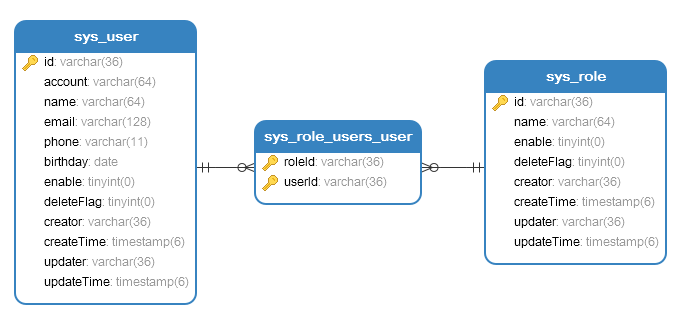
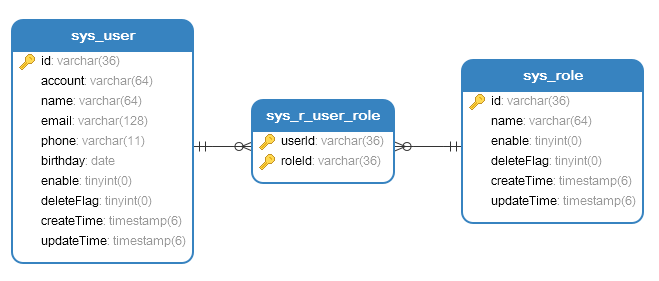
修改表名

Changed region(s): [[0.0, 0.0569, 1.0, 0.9395]]

diff --git a/src/dao/userDao.js b/src/dao/userDao.js
@@ -12,8 +12,8 @@ class UserDao {
      */
     static async queryUserById (connection, id) {
         const sql = `SELECT user.id, user.account, user.name, user.email, user.phone,
-                          user.birthday, user.enable, user.deleteFlag, user.creator,
-                          user.createTime, user.updater, user.updateTime
+                          user.birthday, user.enable, user.deleteFlag, user.createTime,
+                          user.updateTime
                    FROM sys_user user
                    WHERE user.id = ?`;
         const user = await queryOne(connection, sql, id);
@@ -27,8 +27,8 @@ class UserDao {
      */
     static async queryUsers (connection) {
         const sql = `SELECT user.id, user.account, user.name, user.email, user.phone,
-                          user.birthday, user.enable, user.deleteFlag, user.creator,
-                          user.createTime, user.updater, user.updateTime
+                          user.birthday, user.enable, user.deleteFlag, user.createTime, 
+                          user.updateTime
                    FROM sys_user user
                    WHERE user.deleteFlag = ?`;
         const list = await query(connection, sql, [0]);
@@ -43,7 +43,7 @@ class UserDao {
      * @return {Promise.<Array<String>>}
      */
     static async queryUserRoleIds (connection, userId) {
-        const querySql = `SELECT roleId, userId FROM sys_role_users_user WHERE userId = ?`;
+        const querySql = `SELECT roleId, userId FROM sys_r_user_role WHERE userId = ?`;
         const list = await query(connection, querySql, userId);
         const roleIds = list.map(item => item.roleId);
         return roleIds;
@@ -57,11 +57,11 @@ class UserDao {
      * @return {Promise.<void>}
      */
     static async insertUserRoleRelations (connection, userId, roleIds) {
-        const sql = `INSERT INTO sys_role_users_user(roleId, userId) VALUES (?, ?)`;
+        const sql = `INSERT INTO sys_r_user_role(roleId, userId) VALUES (?, ?)`;
         let i, roleId;
         for (i = 0; i < roleIds.length; i++) {
             roleId = roleIds[i];
-            await db.insert(connection, sql, [ roleId, userId ], true);
+            await insert(connection, sql, [ roleId, userId ], true);
         }
     }
 
@@ -73,7 +73,7 @@ class UserDao {
      * @return {Promise.<void>}
      */
     static async deleteUserRoleRelations (connection, userId, roleIds) {
-        const sql = `DELETE FROM sys_role_users_user WHERE roleId = ? AND  userId = ?`;
+        const sql = `DELETE FROM sys_r_user_role WHERE roleId = ? AND  userId = ?`;
         let i, roleId;
         for (i = 0; i < roleIds.length; i++) {
             roleId = roleIds[i];

diff --git a/src/dao/roleDao.js b/src/dao/roleDao.js
@@ -12,7 +12,7 @@ class RoleDao {
      */
     static async queryRoleById (connection, id) {
         const sql = `SELECT role.id, role.name, role.enable, role.deleteFlag,
-                            role.creator, role.createTime, role.updater, role.updateTime
+                            role.createTime, role.updateTime
                    FROM sys_role role
                    WHERE role.id = ?`;
         const role = await queryOne(connection, sql, id);
@@ -26,7 +26,7 @@ class RoleDao {
      */
     static async queryRoles (connection) {
         const sql = `SELECT role.id, role.name, role.enable, role.deleteFlag,
-                            role.creator, role.createTime, role.updater, role.updateTime
+                            role.createTime, role.updateTime
                    FROM sys_role role`;
         const list = await query(connection, sql);
         return list;
@@ -40,9 +40,9 @@ class RoleDao {
      */
     static async queryRolesByUserId (connection, userId) {
         const sql = `SELECT role.id, role.name, role.enable, role.deleteFlag,
-                            role.creator, role.createTime, role.updater, role.updateTime
+                            role.createTime, role.updateTime
                    FROM sys_role role
-                   LEFT OUTER JOIN sys_role_users_user r
+                   LEFT OUTER JOIN sys_r_user_role r
                    ON role.id = r.roleId
                    WHERE r.userId = ?`;
         const roles = await query(connection, sql, userId);

diff --git a/src/config.js b/src/config.js
@@ -15,7 +15,7 @@ module.exports = {
         // 密码
         password: 'root',
         // 数据库名
-        database: 'server-demo',
+        database: 'server-demo-mysql',
         // 连接池允许创建的最大连接数，默认值为10
         connectionLimit: 2,
         // 允许挂起的最大连接数,默认值为0,代表挂起的连接数无限制
